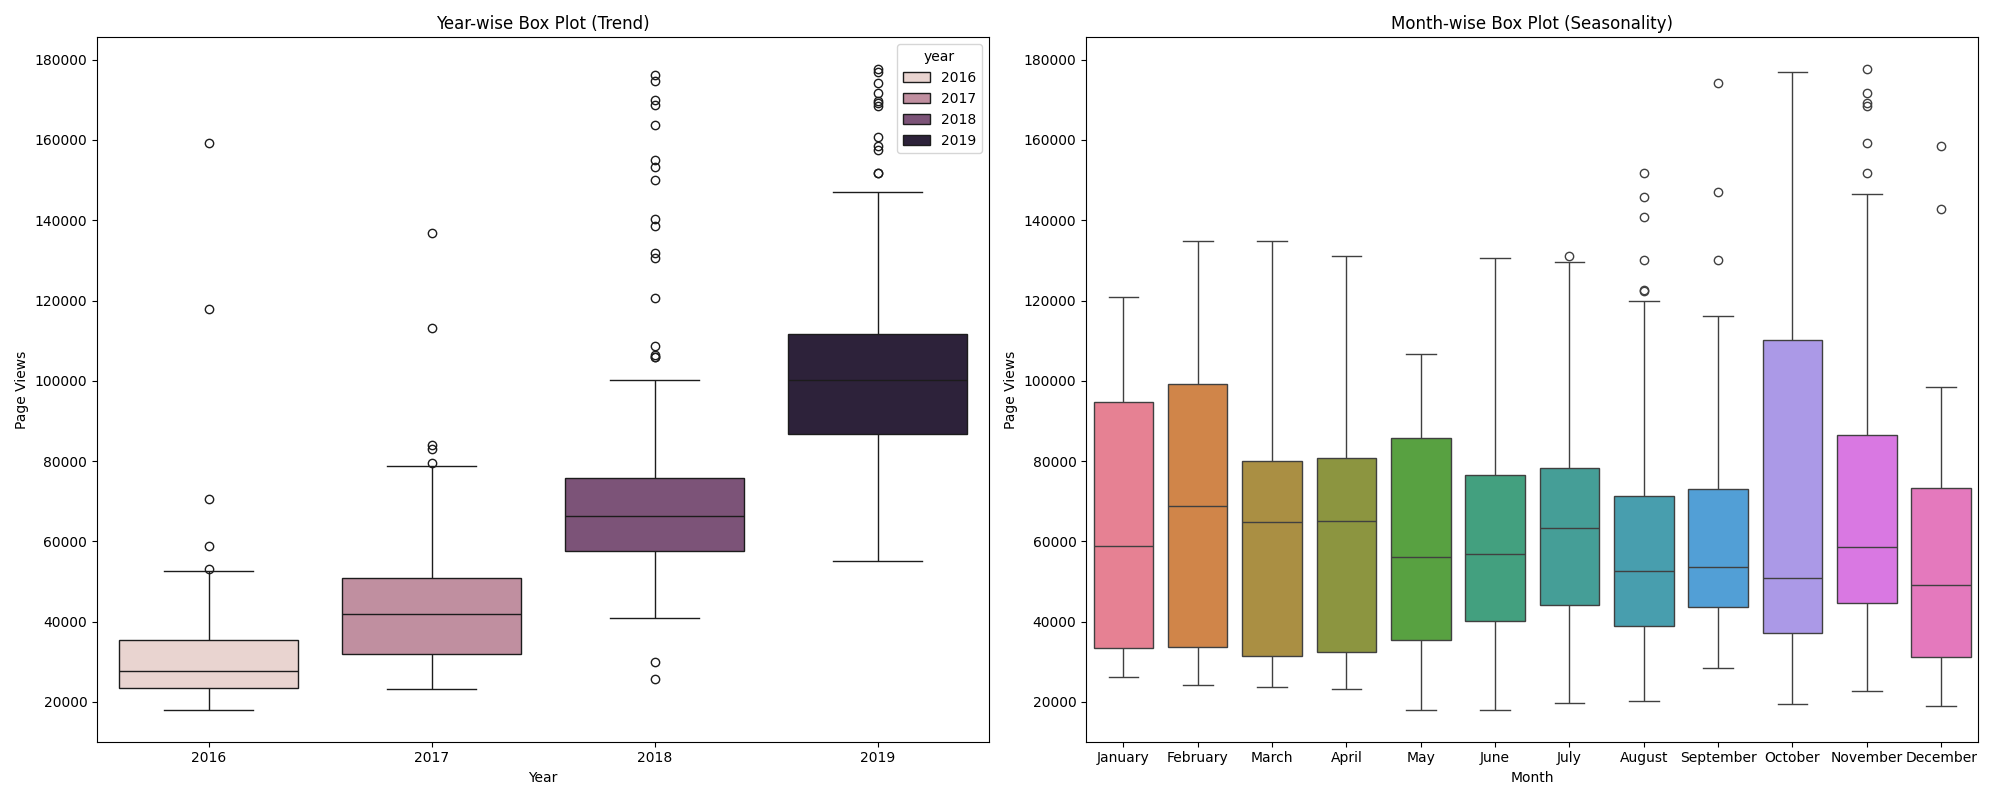
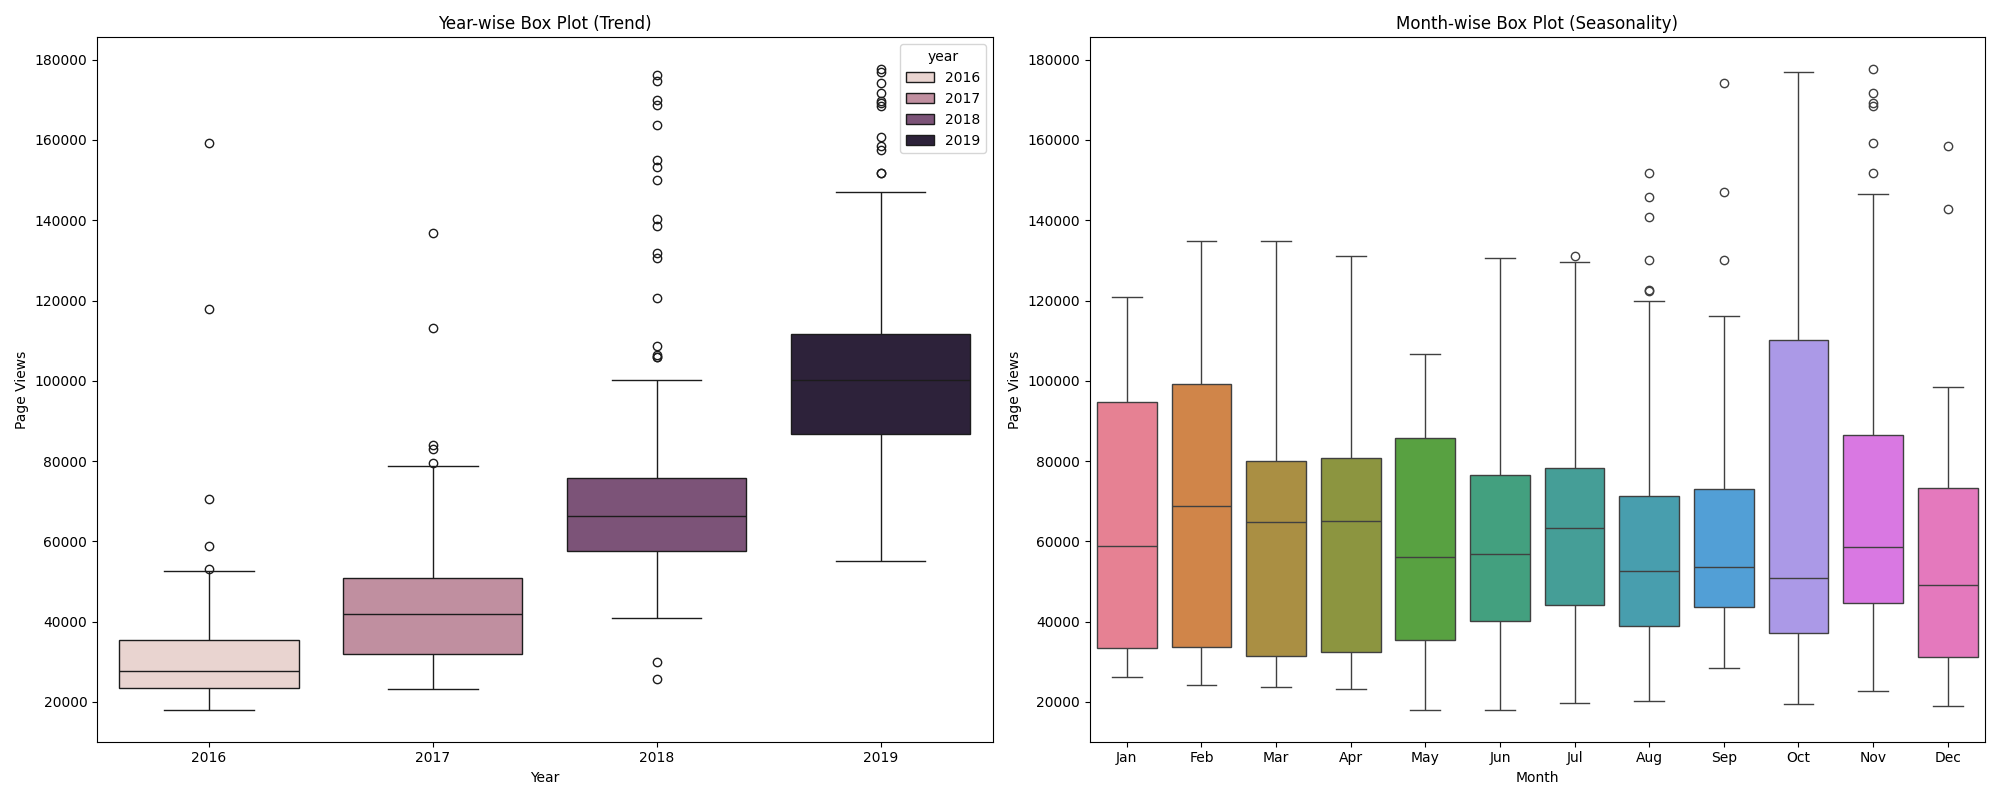
Corrected month format. Solution working and all tests are green

diff --git a/time_series_visualizer.py b/time_series_visualizer.py
@@ -56,8 +56,8 @@ def draw_box_plot():
     # Getting the list of month names
     list_of_months = list(pd.date_range(start='2025-01-01', 
                                         periods=12, 
-                                        freq='ME').strftime('%B'))
-    df_box['month'] = pd.Categorical(df.index.strftime('%B'), categories=list_of_months, ordered=True)
+                                        freq='ME').strftime('%b'))
+    df_box['month'] = pd.Categorical(df.index.strftime('%b'), categories=list_of_months, ordered=True)
     #df_box = df_box.pivot_table(values='views', index='year', columns='month', aggfunc='mean', observed=True)
     #print(df_box)
     
